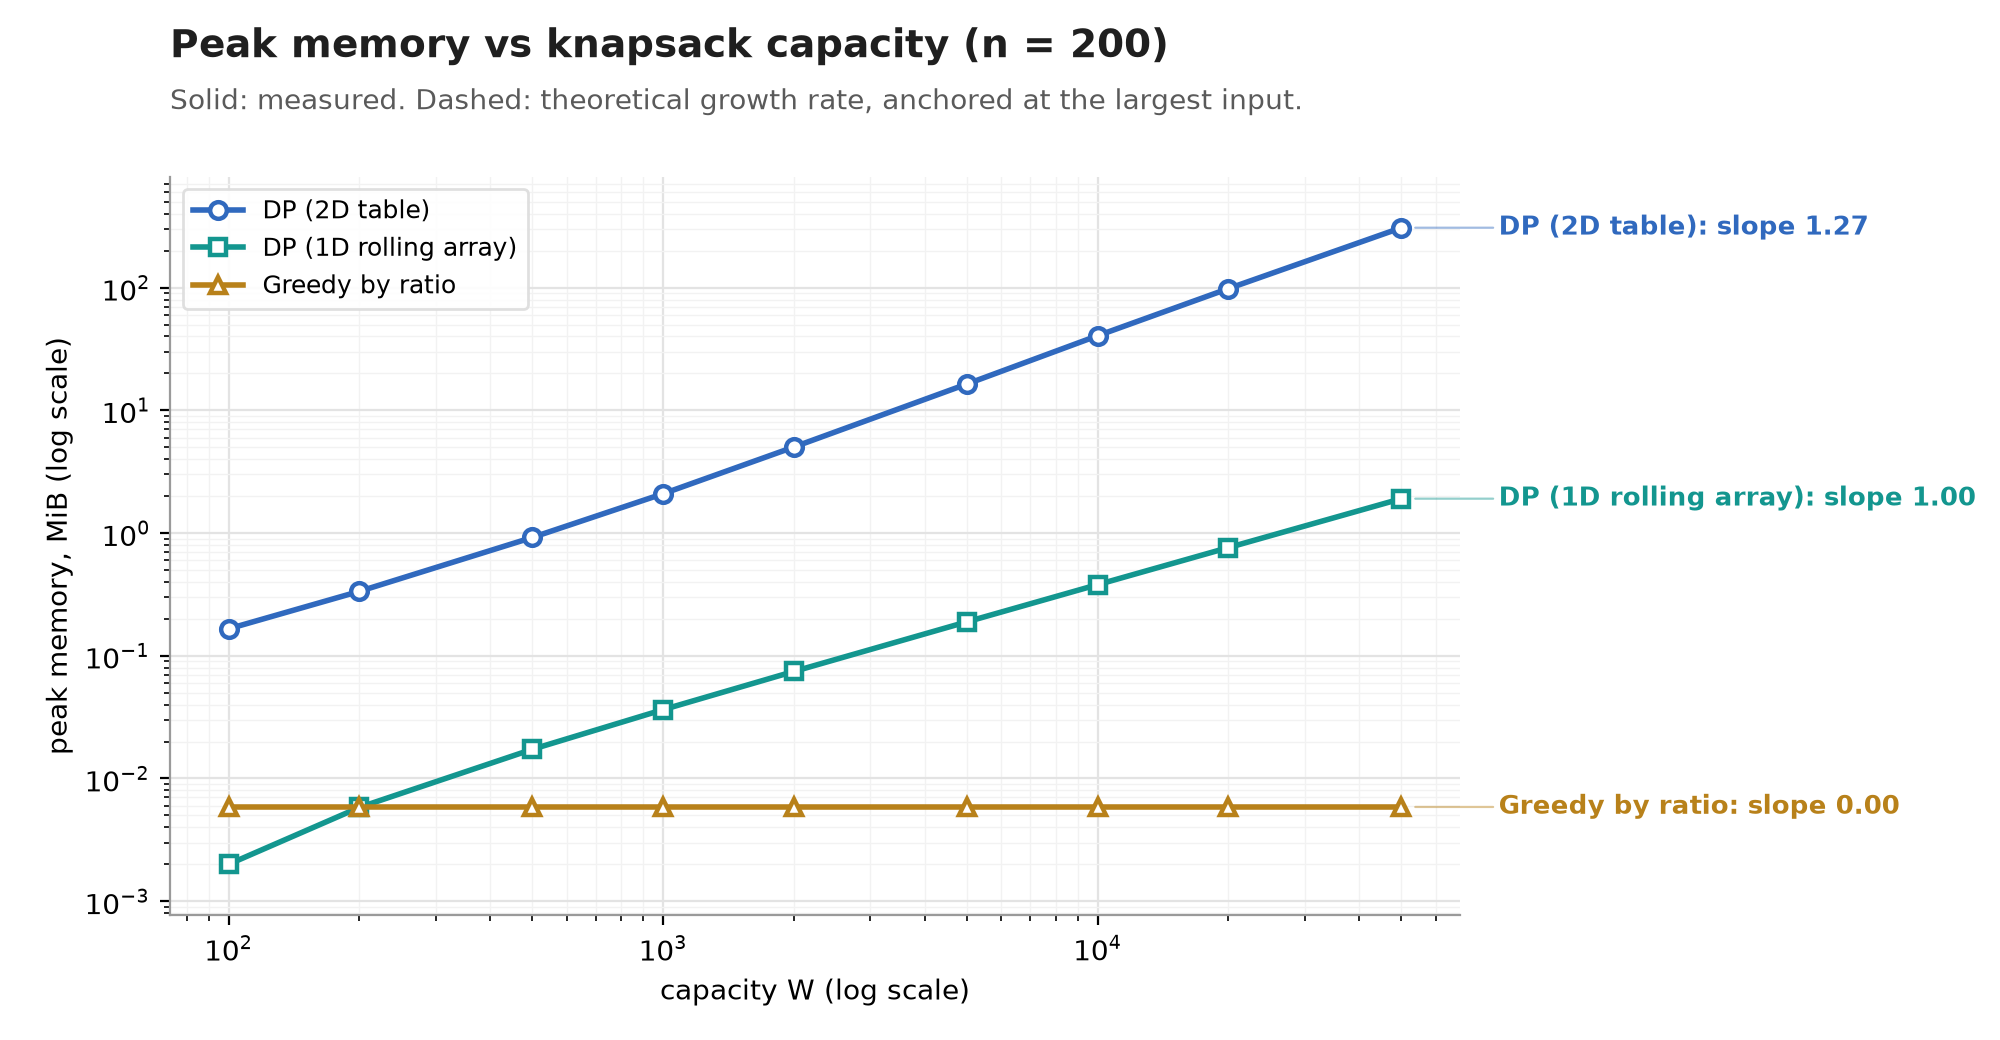
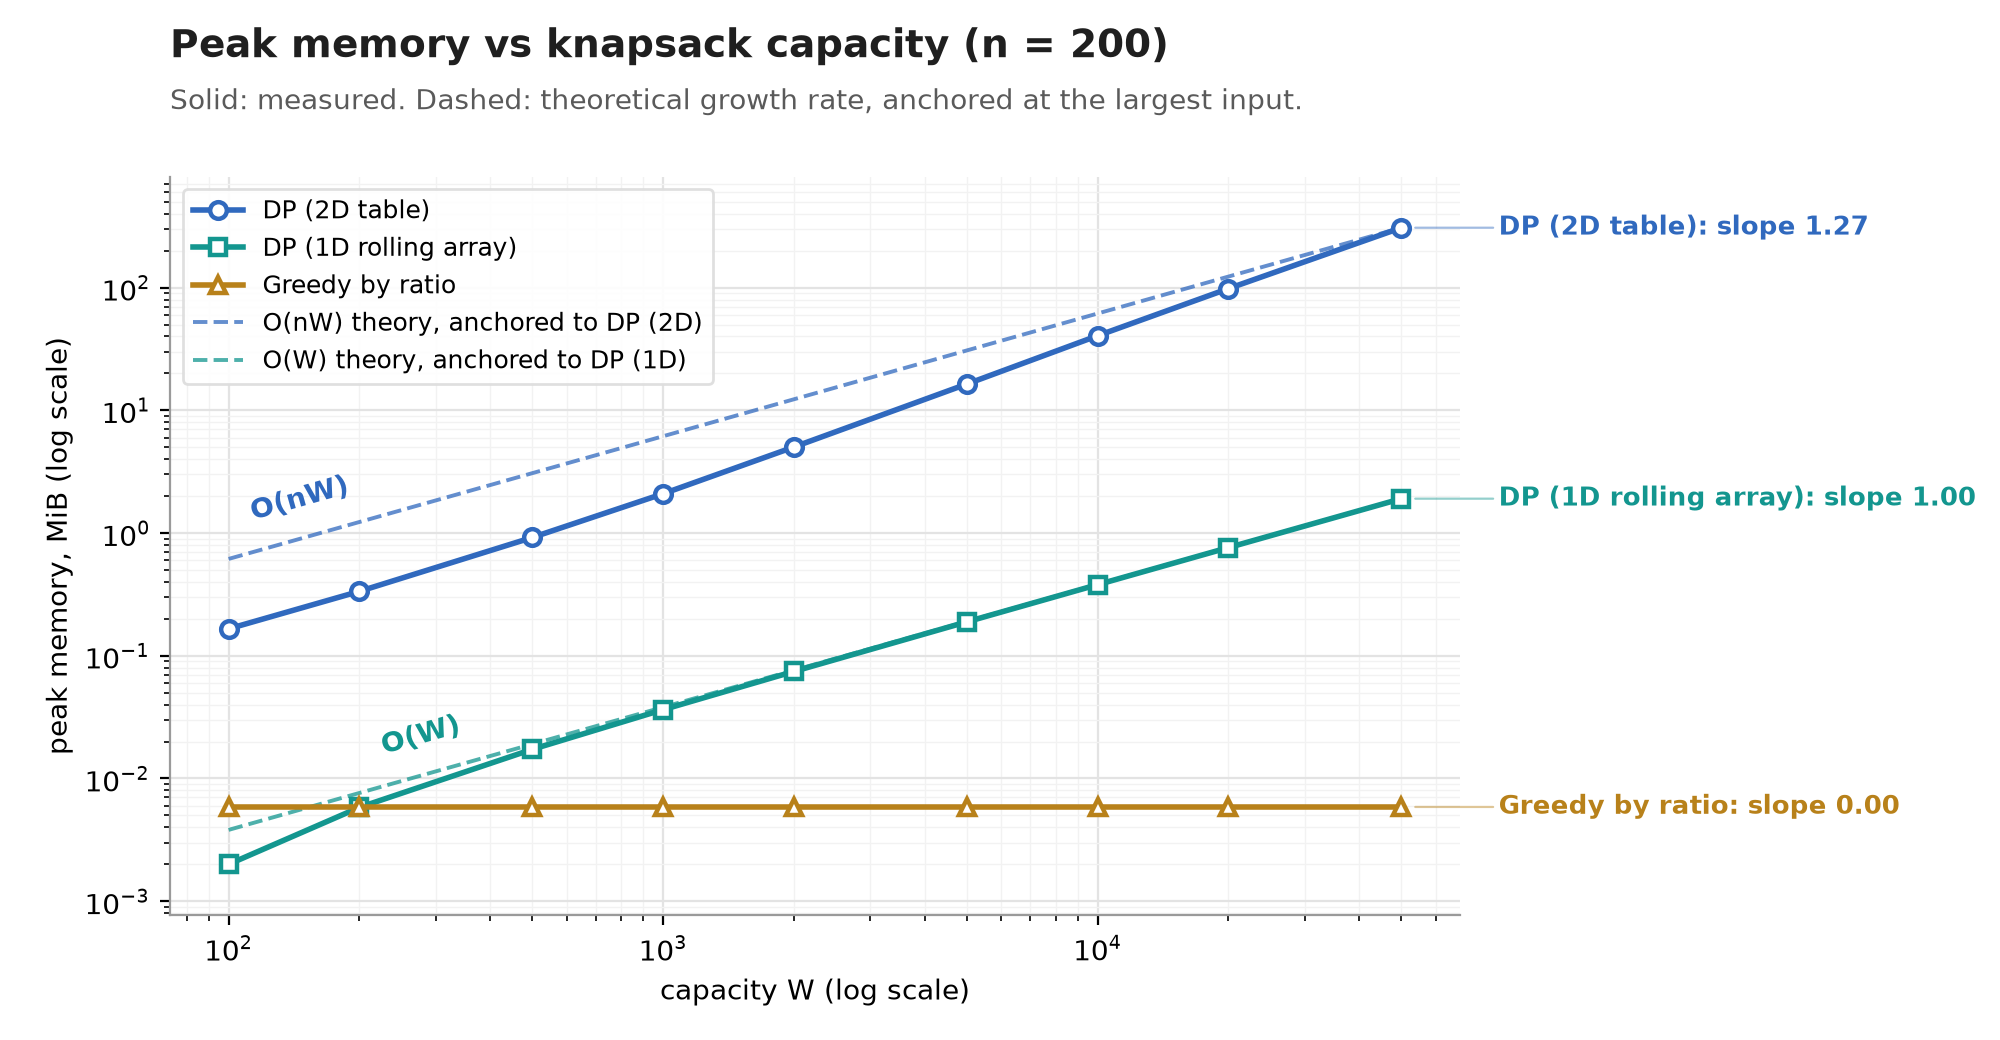
Add O(nW) and O(W) theory lines to the memory growth chart

diff --git a/experiments/plot_growth.py b/experiments/plot_growth.py
@@ -29,7 +29,7 @@ from __future__ import annotations
 import os
 import sys
 from statistics import median
-from typing import Callable, Dict, List, Tuple
+from typing import Callable, Dict, List, Optional, Tuple
 
 sys.path.insert(0, os.path.dirname(os.path.abspath(__file__)))
 
@@ -58,6 +58,8 @@ FIT_POINTS = 4
 SUBTITLE = "Solid: measured. Dashed: theoretical growth rate, anchored at the largest input."
 
 Series = Dict[str, Tuple[np.ndarray, np.ndarray]]
+# (color, legend label, xs, ys, tag) where tag is None or (text, x position of the tag)
+Overlay = Tuple[str, str, np.ndarray, np.ndarray, Optional[Tuple[str, float]]]
 
 
 # ---------------------------------------------------------------- data
@@ -116,7 +118,7 @@ def _stagger(targets: List[float], gap: float, lo: float, hi: float) -> List[flo
     return out
 
 
-def growth_chart(series: Series, algorithms: List[str], overlays: List[Tuple[str, str, np.ndarray, np.ndarray]],
+def growth_chart(series: Series, algorithms: List[str], overlays: List[Overlay],
                  title: str, xlabel: str, ylabel: str, filename: str) -> Dict[str, float]:
     """Draw one log-log chart; return the fitted slope per algorithm."""
     fig, ax = plt.subplots(figsize=(10, 5.2), dpi=200, facecolor="white")
@@ -131,7 +133,7 @@ def growth_chart(series: Series, algorithms: List[str], overlays: List[Tuple[str
                 markeredgecolor=COLORS[alg], markeredgewidth=1.6, markersize=6,
                 linewidth=2, label=common.LABELS[alg], zorder=3)
 
-    for color, label, xs, ys in overlays:
+    for color, label, xs, ys, tag in overlays:
         ax.plot(xs, ys, color=color, linestyle="--", linewidth=1.4, alpha=0.75, label=label, zorder=2)
 
     ax.set_xscale("log")
@@ -151,6 +153,19 @@ def growth_chart(series: Series, algorithms: List[str], overlays: List[Tuple[str
     lo, hi = np.log10(all_y.min()), np.log10(all_y.max())
     pad = 0.08 * (hi - lo)
     ax.set_ylim(10 ** (lo - pad), 10 ** (hi + pad))
+
+    # Short tags on the theory lines, rotated to sit along the line just above it.
+    fig.canvas.draw()
+    for color, _label, xs, ys, tag in overlays:
+        if not tag:
+            continue
+        text, x_at = tag
+        y_at = float(np.interp(np.log10(x_at), np.log10(xs), np.log10(ys)))
+        (x0, y0), (x1, y1) = ax.transData.transform([(xs[0], ys[0]), (xs[-1], ys[-1])])
+        angle = float(np.degrees(np.arctan2(y1 - y0, x1 - x0)))
+        ax.annotate(text, xy=(x_at, 10 ** y_at), xytext=(0, 9), textcoords="offset points",
+                    ha="left", va="bottom", rotation=angle, rotation_mode="anchor",
+                    fontsize=10, fontweight="bold", color=color, zorder=4)
 
     # End-of-line labels just outside the plot area, staggered so they never overlap.
     ylo, yhi = (np.log10(v) for v in ax.get_ylim())
@@ -192,9 +207,9 @@ def runtime_vs_n() -> Dict[str, float]:
     overlays = [
         # W is fixed in this experiment, so O(nW) grows linearly in n.
         (COLORS["dp_2d"], "O(nW) theory, anchored to DP (2D)", dense,
-         anchored(dense, lambda x: x, dp_x[-1], dp_y[-1])),
+         anchored(dense, lambda x: x, dp_x[-1], dp_y[-1]), None),
         (COLORS["greedy_ratio"], "O(n log n) theory, anchored to greedy by ratio", dense,
-         anchored(dense, _n_log_n, gr_x[-1], gr_y[-1])),
+         anchored(dense, _n_log_n, gr_x[-1], gr_y[-1]), None),
     ]
     return growth_chart(s, ALGORITHMS, overlays,
                         "Runtime vs number of items (W = 1000)",
@@ -210,10 +225,10 @@ def runtime_vs_w() -> Dict[str, float]:
     overlays = [
         # n is fixed in this experiment, so O(nW) grows linearly in W ...
         (COLORS["dp_2d"], "O(nW) theory, anchored to DP (2D)", dense,
-         anchored(dense, lambda w: w, dp_x[-1], dp_y[-1])),
+         anchored(dense, lambda w: w, dp_x[-1], dp_y[-1]), None),
         # ... and O(n log n) does not depend on W at all: a flat line.
         (COLORS["greedy_ratio"], "O(n log n) theory (flat in W), anchored to greedy by ratio", dense,
-         anchored(dense, np.ones_like, gr_x[-1], gr_y[-1])),
+         anchored(dense, np.ones_like, gr_x[-1], gr_y[-1]), None),
     ]
     return growth_chart(s, ALGORITHMS, overlays,
                         "Runtime vs knapsack capacity (n = 200)",
@@ -223,7 +238,18 @@ def runtime_vs_w() -> Dict[str, float]:
 
 def memory_vs_w() -> Dict[str, float]:
     s = load_series(EXP2_CSV, "capacity", memory_mib)
-    return growth_chart(s, ["dp_2d", "dp_1d", "greedy_ratio"], [],
+    algorithms = ["dp_2d", "dp_1d", "greedy_ratio"]
+    dense = np.geomspace(min(s[a][0][0] for a in algorithms), max(s[a][0][-1] for a in algorithms), 200)
+    d2_x, d2_y = s["dp_2d"]
+    d1_x, d1_y = s["dp_1d"]
+    overlays = [
+        # n = 200 is fixed, so both are linear in W: parallel on log-log, about a factor of n apart.
+        (COLORS["dp_2d"], "O(nW) theory, anchored to DP (2D)", dense,
+         anchored(dense, lambda w: w, d2_x[-1], d2_y[-1]), ("O(nW)", 115.0)),
+        (COLORS["dp_1d"], "O(W) theory, anchored to DP (1D)", dense,
+         anchored(dense, lambda w: w, d1_x[-1], d1_y[-1]), ("O(W)", 230.0)),
+    ]
+    return growth_chart(s, algorithms, overlays,
                         "Peak memory vs knapsack capacity (n = 200)",
                         "capacity W (log scale)", "peak memory, MiB (log scale)",
                         CHART_MEMORY_W)

diff --git a/README.md b/README.md
@@ -97,7 +97,7 @@ results/
     exp4_failure_cases.png
     growth_runtime_vs_n.png   log-log, fitted slopes, dashed O(nW) / O(n log n) anchored at the largest n
     growth_runtime_vs_W.png   same vs capacity (O(n log n) is flat in W)
-    growth_memory_vs_W.png    peak memory vs capacity, fitted slopes
+    growth_memory_vs_W.png    peak memory vs capacity, fitted slopes, dashed O(nW) / O(W) about a factor of n apart
 ```
 
 Charts are rendered with the matplotlib Agg backend, so no display is needed.
